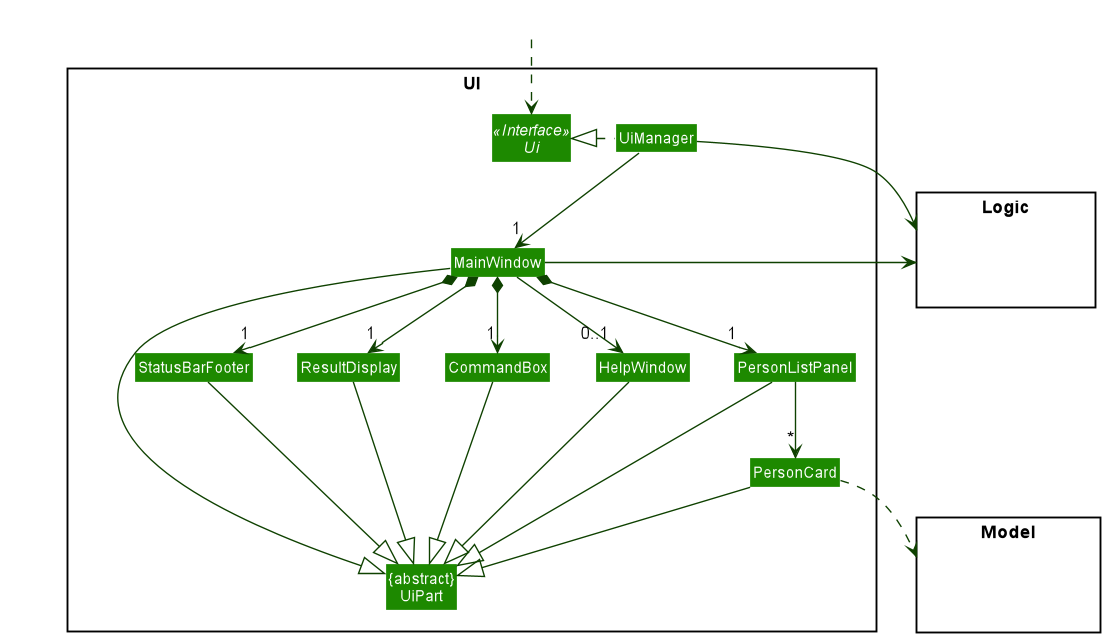
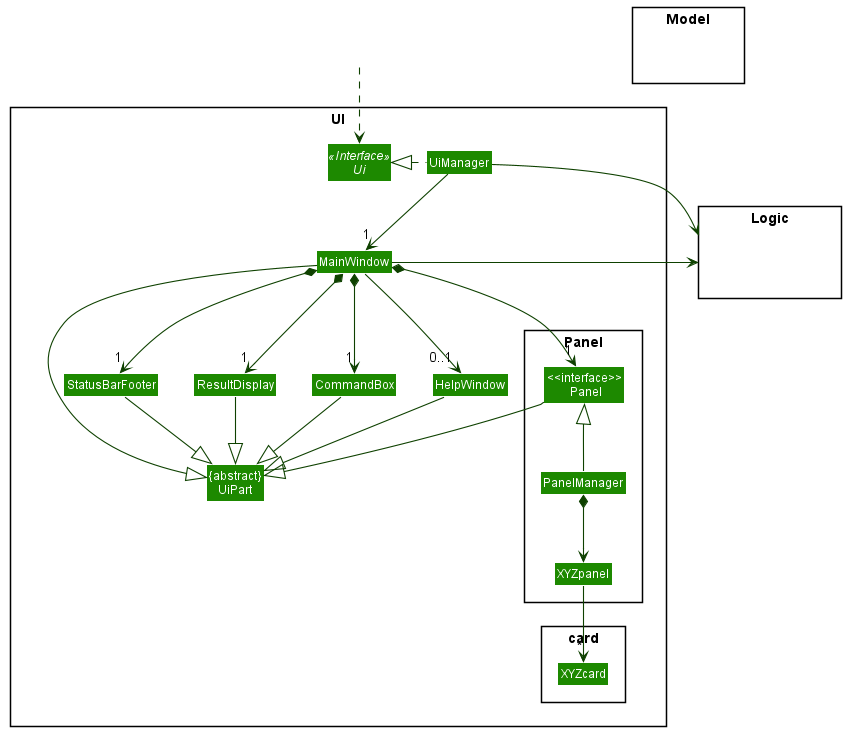
Update outdated diagrams

diff --git a/docs/DeveloperGuide.md b/docs/DeveloperGuide.md
@@ -36,7 +36,7 @@ Given below is a quick overview of main components and how they interact with ea
 
 **Main components of the architecture**
 
-**`Main`** has two classes called [`Main`](https://github.com/se-edu/addressbook-level3/tree/master/src/main/java/seedu/address/Main.java) and [`MainApp`](https://github.com/se-edu/addressbook-level3/tree/master/src/main/java/seedu/address/MainApp.java). It is responsible for,
+**`Main`** has two classes called [`Main`](https://github.com/AY2122S1-CS2103T-F12-1/tp/blob/master/src/main/java/seedu/smartnus/Main.java) and [`MainApp`](https://github.com/AY2122S1-CS2103T-F12-1/tp/blob/master/src/main/java/seedu/smartnus/MainApp.java). It is responsible for,
 * At app launch: Initializes the components in the correct sequence, and connects them up with each other.
 * At shut down: Shuts down the components and invokes cleanup methods where necessary.
 
@@ -73,9 +73,9 @@ The **API** of this component is specified in [`Ui.java`](https://github.com/AY2
 
 ![Structure of the UI Component](images/developer-guide/UiClassDiagram.png)
 
-The UI consists of a `MainWindow` that is made up of parts e.g.`CommandBox`, `ResultDisplay`, `QuestionListPanel`, `StatusBarFooter` etc. All these, including the `MainWindow`, inherit from the abstract `UiPart` class which captures the commonalities between classes that represent parts of the visible GUI.
+The UI consists of a `MainWindow` that is made up of parts e.g.`CommandBox`, `ResultDisplay`, `Panel`, `StatusBarFooter` etc. All these, including the `MainWindow`, inherit from the abstract `UiPart` class which captures the commonalities between classes that represent parts of the visible GUI.
 
-The `UI` component uses the JavaFx UI framework. The layout of these UI parts are defined in matching `.fxml` files that are in the `src/main/resources/view` folder. For example, the layout of the [`MainWindow`](https://github.com/se-edu/addressbook-level3/tree/master/src/main/java/seedu/address/ui/MainWindow.java) is specified in [`MainWindow.fxml`](https://github.com/se-edu/addressbook-level3/tree/master/src/main/resources/view/MainWindow.fxml)
+The `UI` component uses the JavaFx UI framework. The layout of these UI parts are defined in matching `.fxml` files that are in the `src/main/resources/view` folder. For example, the layout of the [`MainWindow`](https://github.com/AY2122S1-CS2103T-F12-1/tp/blob/master/src/main/java/seedu/smartnus/ui/MainWindow.java) is specified in [`MainWindow.fxml`](https://github.com/AY2122S1-CS2103T-F12-1/tp/blob/master/src/main/resources/view/HelpWindow.fxml)
 
 The `UI` component,
 
@@ -143,7 +143,7 @@ The `Model` component,
 
 </div>
 
-## Question class
+#### Question class
 
 The `Question` class is an abstract class that stores a name, importance, and any number of tags and `Choices`.
 A `Choice` stores a name and a boolean value `isCorrect` representing if it is a correct answer to the `Question`.
@@ -159,13 +159,18 @@ Types of Questions currently supported by SmartNUS, and their conditions for val
 1. Multiple Response Questions (coming soon)
    * Has four `Choices` in total, at least one of which is correct
 
-## Note class
+#### Note class
 
-The `Note` class is the class that stores a text - defined as a `title`. The condition for validity of notes is:
+The `Note` class is the class that stores a text - defined as a `NoteName`. The condition for validity of notes is:
 * It should not be empty.
 
-## Statistic Class
-The `Statistic` class is a class that keeps track of the user performance in answering the questions. 
+The notes are stored in a `NoteList` that represents a list of notes in which you can add notes, delete notes, or filter notes. 
+Here is a class diagram of the Notes class.
+
+![Note Class Diagram](images/developer-guide/NoteClassDiagram.png)
+
+#### Statistic Class
+The `Statistic` class is a class that keeps track of the user performance in answering the questions in a quiz. 
 The performance is tracked by:
 * Number of attempts
 * Number of correct attempts
@@ -184,7 +189,7 @@ Below is an activity diagram to show the process:
 
 ![Statistic Activity Diagram](images/developer-guide/StatisticActivityDiagram.png)
 
-### TagStatistic Class
+##### TagStatistic Class
 The `TagStatistic` class inherits from the `Statistic` class. The `TagStatistic` class is specifically used to keep track of the statistics of each tags.
 
 Here is the class diagram for `Statistic` and `TagStatistic`:
@@ -194,11 +199,13 @@ Here is the class diagram for `Statistic` and `TagStatistic`:
 
 
 
-## QuizManager class
+#### Quiz class
 
 [//]: # (TODO: Insert class diagram)
 
-The `QuizManager` class is the class that manages the logic behind the quiz, and is created once a quiz is started.
+The `Quiz` class is an interface that is used to manage a quiz. A `Quiz` can get the current question, go to the next question, go to the previous question, attempt to answer the question, and get the `Statistic` of the `Quiz`.
+
+The `QuizManager` class implements the `Quiz` interface. It manages the logic behind the quiz, and is created once a quiz is started.
 
 Each `QuizManager` class stores the following information about the quiz:
 * `questions`: A list of `Question` objects for all the questions in the quiz
@@ -222,7 +229,7 @@ The `Storage` component,
 
 Classes used by multiple components are in the `seedu.smartnus.commons` package.
 
-### Theme Class
+#### Theme Class
 The `Theme` class is a class that stores the `css` file of a theme.
 Currently, there are two available themes: `LightTheme` and `DarkTheme`which inherits from `Theme`:
 
@@ -248,6 +255,41 @@ Without saving it in the storage, the user will have to keep changing the theme 
 
 This section describes some noteworthy details on how certain features are implemented.
 
+### Quiz feature
+
+All features that have to do with the quiz.
+
+#### Starting a quiz
+
+The start quiz feature allows users to start a quiz from the main window.
+
+##### Implementation
+
+The quiz feature is facilitated by `MainWindow`, `LogicManager`, `SmartNusParser` and `QuizCommand`. Given below is an example usage scenario of how the start quiz mechanism behaves at each step.
+
+1. User input from `MainWindow` class in the Ui component is passed to the `LogicManager` to execute.
+2. `LogicManager` will then call `SmartNusParser`, which will parse the user input to return a `QuizCommandParser`.
+3. Once parsed, `QuizCommandParser` will return a `QuizCommand`, and when executed, will update the questions available in the model with the questions to be displayed in the quiz as well as return a `CommandResult` that indicates to start the quiz.
+4. The `CommandResult` is then returned back to `MainWindow` which will then create a new `QuizWindow` to be displayed.
+
+Below is the sequence diagram to show how the quiz is started.
+<!-- TODO: Insert quiz diagram -->
+
+#### Parsing of user input
+
+As different commands are available to the user at the `QuizWindow` and the `MainWindow`, it is necessary to determine which commands are valid for the user to execute based on which window the user is at.
+
+#### Answering of questions
+
+The answering of questions feature allows users to select their desired choice for questions during a quiz.
+
+##### Implementation
+ Given below is an example usage scenario of how the mechanism of answering a multiple choice question behaves at each step.
+
+1. User input and the current `QuizManager` object are passed to the `LogicManager` to execute.
+2. `LogicManager` will then call `QuizInputParser`, which will identify type of the current `Question` from `QuizManager`, which will return a `AnswerMcqCommandParser`.
+3. Once parsed, `QuizCommandParser` will return a `QuizCommand`, and when executed, will update the questions available in the model with the questions to be displayed in the quiz as well as return a `CommandResult` that indicates to start the quiz.
+4. The `CommandResult` is then returned back to `MainWindow` which will then create a new `QuizWindow` to be displayed.
 ### \[Proposed\] Undo/redo feature
 
 #### Proposed Implementation
@@ -332,30 +374,6 @@ _{more aspects and alternatives to be added}_
 
 _{Explain here how the data archiving feature will be implemented}_
 
-### Quiz feature
-
-All features that have to do with the quiz.
-
-#### Starting a quiz
-
-The start quiz feature allows users to start a quiz from the main window.
-
-##### Implementation
-
-The quiz feature is facilitated by `MainWindow`, `LogicManager`, `SmartNusParser` and `QuizCommand`. Given below is an example usage scenario of how the start quiz mechanism behaves at each step.
-
-1. User input from `MainWindow` class in the Ui component is passed to the `LogicManager` to execute.
-2. `LogicManager` will then call `SmartNusParser`, which will parse the user input to return a `QuizCommandParser`.
-3. Once parsed, `QuizCommandParser` will return a `QuizCommand`, and when executed, will update the questions available in the model with the questions to be displayed in the quiz as well as return a `CommandResult` that indicates to start the quiz.
-4. The `CommandResult` is then returned back to `MainWindow` which will then create a new `QuizWindow` to be displayed.
-
-Below is the sequence diagram to show how the quiz is started.
-<!-- TODO: Insert quiz diagram -->
-
-#### Parsing of user input
-
-As different commands are available to the user at the `QuizWindow` and the `MainWindow`, it is necessary to determine which commands are valid for the user to execute based on which window the user is at.
-
 ##### Design considerations
 
 **Aspect: How commands are determined to be valid for each mode:**
@@ -367,18 +385,6 @@ As different commands are available to the user at the `QuizWindow` and the `Mai
 * **Alternative 2:** Saves the entire address book.
   * Pros: Easy to implement.
   * Cons: May have performance issues in terms of memory usage.
-
-#### Answering of questions
-
-The answering of questions feature allows users to select their desired choice for questions during a quiz.
-
-##### Implementation
- Given below is an example usage scenario of how the mechanism of answering a multiple choice question behaves at each step.
-
-1. User input and the current `QuizManager` object are passed to the `LogicManager` to execute.
-2. `LogicManager` will then call `QuizInputParser`, which will identify type of the current `Question` from `QuizManager`, which will return a `AnswerMcqCommandParser`.
-3. Once parsed, `QuizCommandParser` will return a `QuizCommand`, and when executed, will update the questions available in the model with the questions to be displayed in the quiz as well as return a `CommandResult` that indicates to start the quiz.
-4. The `CommandResult` is then returned back to `MainWindow` which will then create a new `QuizWindow` to be displayed.
 
 
 
